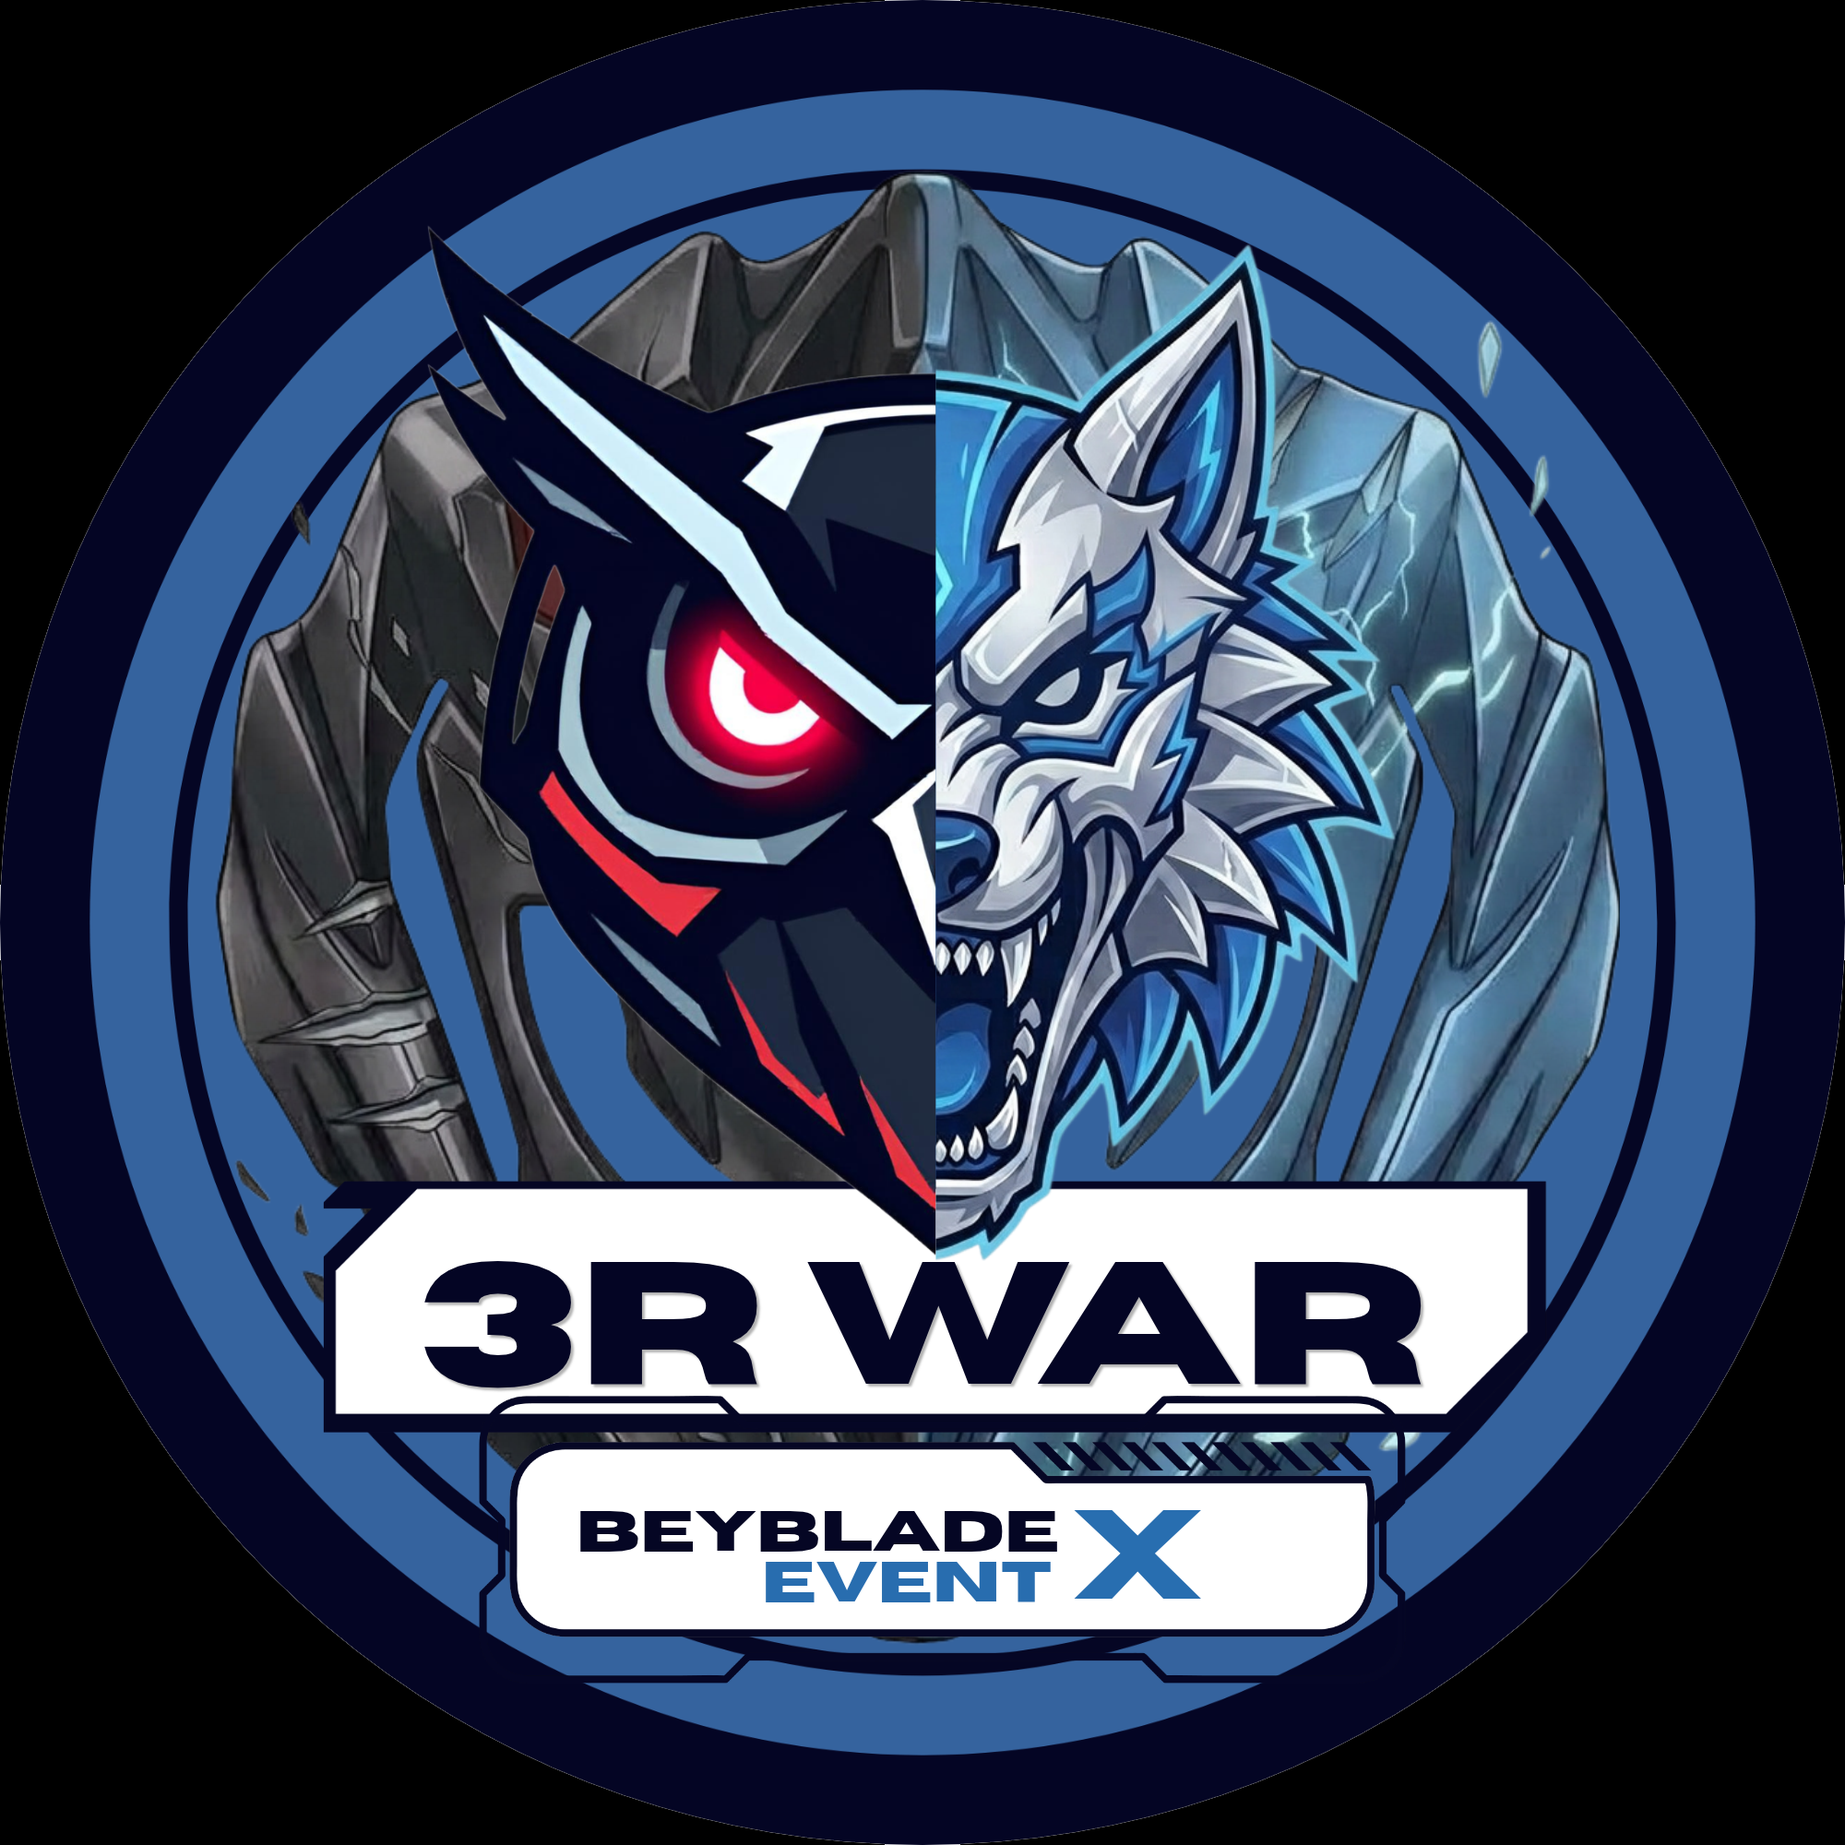
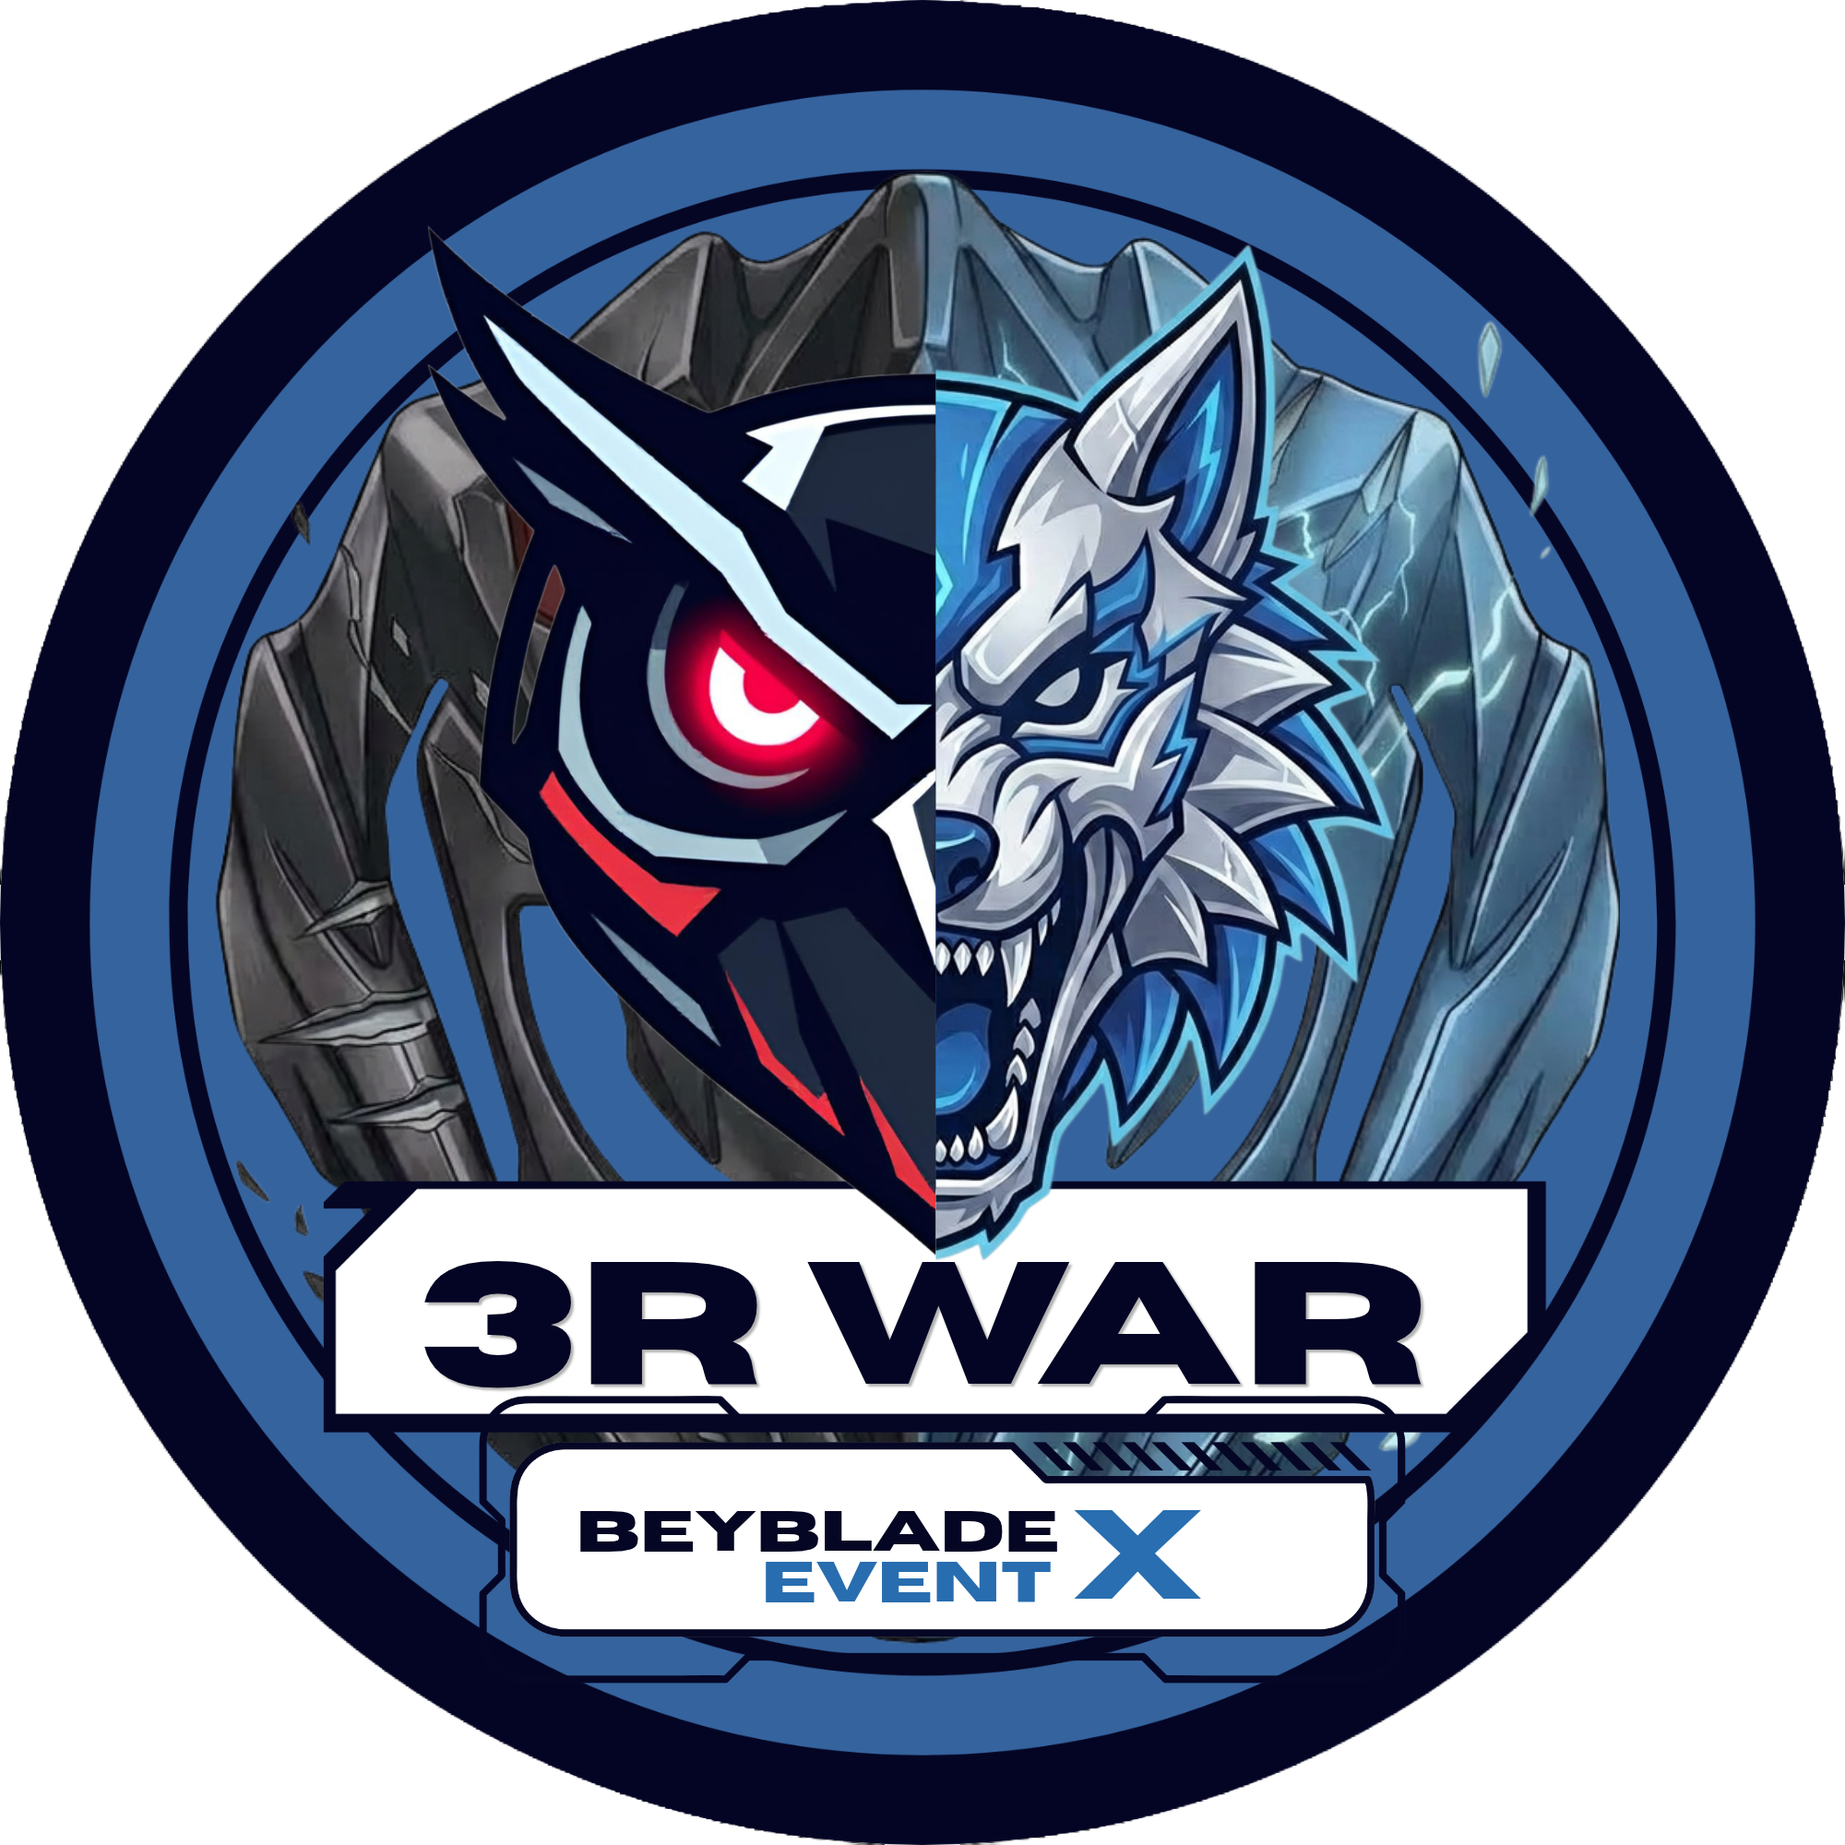
Add sponsors (Deli Park) and refresh sub community images
Sponsors table, /admin/sponsor editor and logos under Supported by on the homepage (migration 0016). Sub community source images updated (Turcil, 3R WAR, Doys Party) and the Deli Park logo added.

diff --git a/src/app/admin/sponsor/page.tsx b/src/app/admin/sponsor/page.tsx
@@ -1,0 +1,49 @@
+import { AddCard, AdminPage, ItemGrid } from "@/components/admin/admin-page";
+import { ActionForm } from "@/components/form/action-form";
+import { ImageUpload } from "@/components/form/image-upload";
+import { Button } from "@/components/ui/button";
+import { Card, CardContent, CardHeader, CardTitle } from "@/components/ui/card";
+import { Input, NativeSelect } from "@/components/ui/input";
+import { SPONSOR_TIERS, type Sponsor } from "@/domain/sponsor";
+import { requireAdmin } from "@/server/admin-session";
+import { supabaseSponsors } from "@/server/sponsors";
+import { deleteSponsor, prepareSponsorLogoUpload, saveSponsor } from "./actions";
+
+export const metadata = { title: "Sponsor | Admin BOM" };
+
+function SponsorForm({ s }: { s?: Sponsor }) {
+  return (
+    <ActionForm action={saveSponsor} resetOnSuccess={!s} className="grid gap-3 sm:grid-cols-2">
+      {s?.id && <input type="hidden" name="id" value={s.id} />}
+      <Input name="name" defaultValue={s?.name} placeholder="Nama sponsor" aria-label="Nama" maxLength={60} required />
+      <NativeSelect name="tier" aria-label="Tier" defaultValue={s?.tier ?? "silver"}>
+        {SPONSOR_TIERS.map(([value, label]) => <option key={value} value={value}>{label}</option>)}
+      </NativeSelect>
+      <Input name="website" defaultValue={s?.website ?? ""} placeholder="Website (opsional)" aria-label="Website" maxLength={200} />
+      <Input name="sort_order" type="number" min={0} max={999} defaultValue={s?.sort_order ?? 0} aria-label="Urutan" />
+      <ImageUpload name="logo_path" label="Logo" defaultPath={s?.logo_path} prepare={prepareSponsorLogoUpload} />
+      <label className="flex items-center gap-2 text-sm sm:col-span-2"><input type="checkbox" name="is_active" defaultChecked={s?.is_active ?? true} /> Tampil di website</label>
+      <Button type="submit" className="sm:col-span-2">{s ? "Simpan" : "Tambah"}</Button>
+    </ActionForm>
+  );
+}
+
+export default async function AdminSponsorsPage() {
+  const rows = await supabaseSponsors(await requireAdmin()).list({ includeInactive: true });
+  return (
+    <AdminPage title="Sponsor" hint="Logo tampil di beranda pada bagian Supported by. Gunakan logo PNG/WebP (latar transparan lebih baik).">
+      <AddCard title="Sponsor baru"><SponsorForm /></AddCard>
+      <ItemGrid>
+        {rows.map((s) => (
+          <Card key={s.id}>
+            <CardHeader><CardTitle>{s.name}{!s.is_active && <span className="text-muted-foreground ml-2 text-sm">(disembunyikan)</span>}</CardTitle></CardHeader>
+            <CardContent className="space-y-3">
+              <SponsorForm s={s} />
+              <ActionForm action={deleteSponsor.bind(null, s.id!)}><Button variant="destructive" size="sm">Hapus</Button></ActionForm>
+            </CardContent>
+          </Card>
+        ))}
+      </ItemGrid>
+    </AdminPage>
+  );
+}

diff --git a/src/app/page.tsx b/src/app/page.tsx
@@ -12,10 +12,12 @@ import { Button } from "@/components/ui/button";
 import { Card, CardContent } from "@/components/ui/card";
 import { formatWhen, todayWib } from "@/domain/next-event";
 import { communityStats } from "@/lib/content";
+import { mediaUrl } from "@/lib/media";
 import { DIRECTIONS_URL, INSTAGRAM, PARTNER_EMAIL, VENUE, WHATSAPP_INVITE } from "@/lib/venue";
 import { loadUpcomingEvents } from "@/server/events";
 import { latestResult } from "@/server/latest-result";
 import { publicSiteMedia } from "@/server/site-media";
+import { publicSponsors } from "@/server/sponsors";
 import { publicSubCommunities } from "@/server/sub-communities";
 
 export const revalidate = 60;
@@ -26,8 +28,8 @@ const EVENT_LIMIT = 3;
 export default async function Home() {
   const now = new Date();
   const media = publicSiteMedia();
-  const [subs, result, news, gallery] = await Promise.all([
-    publicSubCommunities().listActive(), latestResult(todayWib(now)), media.list("news"), media.list("gallery"),
+  const [subs, result, news, gallery, sponsors] = await Promise.all([
+    publicSubCommunities().listActive(), latestResult(todayWib(now)), media.list("news"), media.list("gallery"), publicSponsors().list(),
   ]);
   const events = await loadUpcomingEvents(subs, EVENT_LIMIT, now);
 
@@ -134,6 +136,21 @@ export default async function Home() {
 
       <section aria-labelledby="sponsors">
         <SectionHeading id="sponsors">Supported by</SectionHeading>
+        {sponsors.length > 0 && (
+          <ul className="mb-6 flex flex-wrap items-center gap-4">
+            {sponsors.map((sp) => {
+              const logo = (
+                // eslint-disable-next-line @next/next/no-img-element -- sponsor logos come in any size and format
+                <img src={mediaUrl(sp.logo_path)} alt={sp.name} loading="lazy" className="h-12 w-auto max-w-40 object-contain sm:h-14" />
+              );
+              return (
+                <li key={sp.id} className="rounded-lg bg-white px-5 py-3">
+                  {sp.website ? <a href={sp.website} target="_blank" rel="noopener noreferrer" aria-label={sp.name}>{logo}</a> : logo}
+                </li>
+              );
+            })}
+          </ul>
+        )}
         <p className="text-muted-foreground max-w-xl text-sm">
           Want to put your brand in front of Medan&apos;s Beyblade X scene?{" "}
           <a href={`mailto:${PARTNER_EMAIL}`} className="hover:text-primary text-white underline">{PARTNER_EMAIL}</a>

diff --git a/src/server/sponsors.ts b/src/server/sponsors.ts
@@ -1,0 +1,48 @@
+import "server-only";
+import type { SupabaseClient } from "@supabase/supabase-js";
+import type { Sponsor, SponsorInput } from "@/domain/sponsor";
+import { hasSupabase } from "@/lib/supabase/env";
+import { check } from "./db";
+import { createPublicClient } from "./supabase-public";
+
+export interface SponsorRepository {
+  list(opts?: { includeInactive?: boolean }): Promise<Sponsor[]>;
+  get(id: string): Promise<Sponsor | null>;
+  save(input: SponsorInput): Promise<void>;
+  remove(id: string): Promise<void>;
+}
+
+const COLS = "id,name,tier,logo_path,website,sort_order,is_active";
+
+export function supabaseSponsors(client: SupabaseClient): SponsorRepository {
+  return {
+    async list(opts) {
+      let q = client.from("sponsors").select(COLS).order("sort_order").order("name");
+      if (!opts?.includeInactive) q = q.eq("is_active", true);
+      const { data, error } = await q;
+      check(error, "Failed to load sponsors");
+      return (data ?? []) as Sponsor[];
+    },
+    async get(id) {
+      const { data, error } = await client.from("sponsors").select(COLS).eq("id", id).maybeSingle();
+      check(error, "Failed to load sponsor");
+      return (data as Sponsor | null) ?? null;
+    },
+    async save(input) {
+      const { id, ...row } = input;
+      const { error } = id ? await client.from("sponsors").update(row).eq("id", id) : await client.from("sponsors").insert(row);
+      check(error, "Failed to save sponsor");
+    },
+    async remove(id) {
+      const { error } = await client.from("sponsors").delete().eq("id", id);
+      check(error, "Failed to delete sponsor");
+    },
+  };
+}
+
+/** Public reads use the cookie-less client so pages stay statically cacheable. Optional section: fails soft. */
+export function publicSponsors(): Pick<SponsorRepository, "list"> {
+  if (!hasSupabase()) return { list: async () => [] };
+  const repo = supabaseSponsors(createPublicClient());
+  return { list: (opts) => repo.list(opts).catch((e) => { console.error(e); return []; }) };
+}

diff --git a/src/domain/sponsor.ts b/src/domain/sponsor.ts
@@ -1,0 +1,45 @@
+import { parseImagePath } from "./media";
+import { isUuid, parseText } from "./validation";
+
+export const SPONSOR_TIERS = [["gold", "Gold (sponsor utama)"], ["silver", "Silver (venue)"], ["bronze", "Bronze (toko)"]] as const;
+export type SponsorTier = (typeof SPONSOR_TIERS)[number][0];
+
+export type Sponsor = {
+  id?: string; name: string; tier: SponsorTier; logo_path: string; website: string | null; sort_order: number; is_active: boolean;
+};
+export type SponsorInput = Omit<Sponsor, "id"> & { id?: string };
+
+/** Website of a sponsor: empty means none; otherwise it must be an http(s) URL. */
+export function parseWebsite(raw: unknown): string | null {
+  const v = typeof raw === "string" ? raw.trim() : "";
+  if (!v) return null;
+  if (v.length > 200) throw new Error("Website maksimal 200 karakter");
+  let url: URL;
+  try {
+    url = new URL(/^https?:\/\//i.test(v) ? v : `https://${v}`);
+  } catch {
+    throw new Error("Website tidak valid");
+  }
+  if (!url.hostname.includes(".")) throw new Error("Website tidak valid");
+  return url.toString();
+}
+
+export function parseSponsorInput(get: (key: string) => unknown): SponsorInput {
+  const id = get("id");
+  if (id !== null && id !== undefined && id !== "" && !isUuid(id)) throw new Error("Invalid id");
+  const tier = get("tier");
+  if (!SPONSOR_TIERS.some(([t]) => t === tier)) throw new Error("Tier tidak valid");
+  const order = Number(get("sort_order") ?? 0);
+  if (!Number.isInteger(order) || order < 0 || order > 999) throw new Error("Urutan harus 0-999");
+  const logo = parseImagePath(get("logo_path"), "sponsors");
+  if (!logo) throw new Error("Upload logo dulu");
+  return {
+    ...(id ? { id: id as string } : {}),
+    name: parseText(get("name"), "Nama", 60),
+    tier: tier as SponsorTier,
+    logo_path: logo,
+    website: parseWebsite(get("website")),
+    sort_order: order,
+    is_active: get("is_active") === "on" || get("is_active") === "true",
+  };
+}

diff --git a/src/app/admin/sponsor/actions.ts b/src/app/admin/sponsor/actions.ts
@@ -1,0 +1,46 @@
+"use server";
+import { revalidatePath } from "next/cache";
+import { parseSponsorInput } from "@/domain/sponsor";
+import { isUuid } from "@/domain/validation";
+import { toFormState, type FormState } from "@/lib/form-state";
+import { requireAdmin } from "@/server/admin-session";
+import { createImageUpload, removeMedia } from "@/server/media";
+import { supabaseSponsors } from "@/server/sponsors";
+
+function revalidate() {
+  revalidatePath("/admin/sponsor");
+  revalidatePath("/");
+}
+
+export async function prepareSponsorLogoUpload(contentType: string): Promise<{ path: string; token: string } | { error: string }> {
+  const supabase = await requireAdmin();
+  try {
+    return await createImageUpload(supabase, "sponsors", contentType);
+  } catch (e) {
+    return { error: e instanceof Error ? e.message : "Gagal menyiapkan upload" };
+  }
+}
+
+export async function saveSponsor(_prev: FormState, formData: FormData): Promise<FormState> {
+  const supabase = await requireAdmin();
+  return toFormState(async () => {
+    const input = parseSponsorInput((k) => formData.get(k));
+    const repo = supabaseSponsors(supabase);
+    const previous = input.id ? (await repo.get(input.id))?.logo_path : null;
+    await repo.save(input);
+    if (previous && previous !== input.logo_path) await removeMedia(supabase, [previous]);
+    revalidate();
+  }, "Disimpan");
+}
+
+export async function deleteSponsor(id: string): Promise<FormState> {
+  const supabase = await requireAdmin();
+  return toFormState(async () => {
+    if (!isUuid(id)) throw new Error("Invalid input");
+    const repo = supabaseSponsors(supabase);
+    const existing = await repo.get(id);
+    await repo.remove(id);
+    await removeMedia(supabase, [existing?.logo_path]);
+    revalidate();
+  });
+}

diff --git a/tests/domain.test.ts b/tests/domain.test.ts
@@ -344,3 +344,24 @@ describe("team role photos", () => {
     expect(() => parse([[`photo:${A}`, "gallery/x.jpg"]], [A])).toThrow();
   });
 });
+
+import { parseSponsorInput, parseWebsite } from "@/domain/sponsor";
+
+describe("sponsors", () => {
+  const sp = (o: Record<string, unknown>) => parseSponsorInput((k) => o[k]);
+  const base = { name: " Deli Park ", tier: "silver", logo_path: "sponsors/deli-park.png", sort_order: "1", is_active: "on" };
+  it("parses a sponsor", () => {
+    expect(sp(base)).toEqual({ name: "Deli Park", tier: "silver", logo_path: "sponsors/deli-park.png", website: null, sort_order: 1, is_active: true });
+  });
+  it("normalises the website and rejects junk", () => {
+    expect(parseWebsite("deli.park/id")).toBe("https://deli.park/id");
+    expect(parseWebsite("")).toBeNull();
+    expect(() => parseWebsite("javascript:alert(1)")).toThrow();
+    expect(() => parseWebsite("not a url")).toThrow();
+  });
+  it("requires a logo in the sponsors folder and a known tier", () => {
+    expect(() => sp({ ...base, logo_path: "" })).toThrow();
+    expect(() => sp({ ...base, logo_path: "gallery/x.png" })).toThrow();
+    expect(() => sp({ ...base, tier: "platinum" })).toThrow();
+  });
+});

diff --git a/src/domain/media.ts b/src/domain/media.ts
@@ -4,11 +4,11 @@ export const MAX_IMAGE_BYTES = 5 * 1024 * 1024;
 const IMAGE_TYPES: Record<string, string> = { "image/jpeg": "jpg", "image/png": "png", "image/webp": "webp" };
 export const IMAGE_ACCEPT = Object.keys(IMAGE_TYPES).join(",");
 
-export type MediaFolder = "sub-communities" | "founding-team" | "news" | "gallery";
+export type MediaFolder = "sub-communities" | "founding-team" | "news" | "gallery" | "sponsors";
 
 // Sub community uploads are uuid-named; founding team photos may also be hand-named (e.g. dewa.jpg).
 const FILE_NAME: Record<MediaFolder, string> = {
-  "sub-communities": "[0-9a-f-]{36}", "founding-team": "[A-Za-z0-9_-]{1,80}", news: "[A-Za-z0-9_-]{1,80}", gallery: "[A-Za-z0-9_-]{1,80}",
+  "sub-communities": "[0-9a-f-]{36}", "founding-team": "[A-Za-z0-9_-]{1,80}", news: "[A-Za-z0-9_-]{1,80}", gallery: "[A-Za-z0-9_-]{1,80}", sponsors: "[A-Za-z0-9_-]{1,80}",
 };
 
 export const MAX_VIDEO_BYTES = 20 * 1024 * 1024;

diff --git a/src/app/admin/layout.tsx b/src/app/admin/layout.tsx
@@ -13,6 +13,7 @@ const sections = [
   ["/admin/komunitas", "Sub Komunitas"],
   ["/admin/tim", "Founding Team"],
   ["/admin/media", "Slider & Galeri"],
+  ["/admin/sponsor", "Sponsor"],
   ["/admin/pendaftar", "Pendaftar"],
 ] as const;
 
